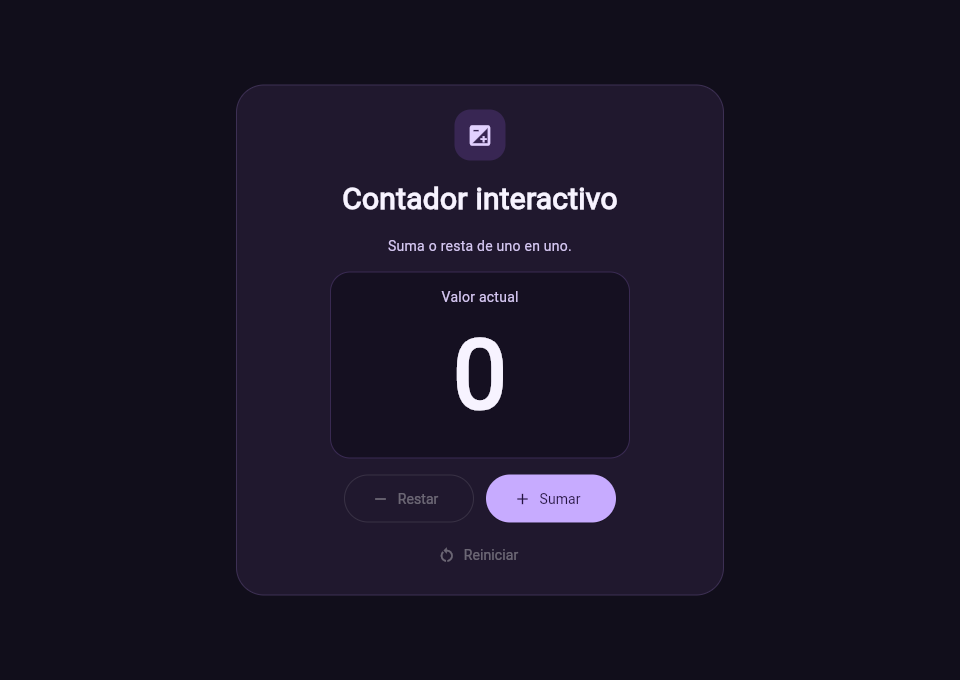
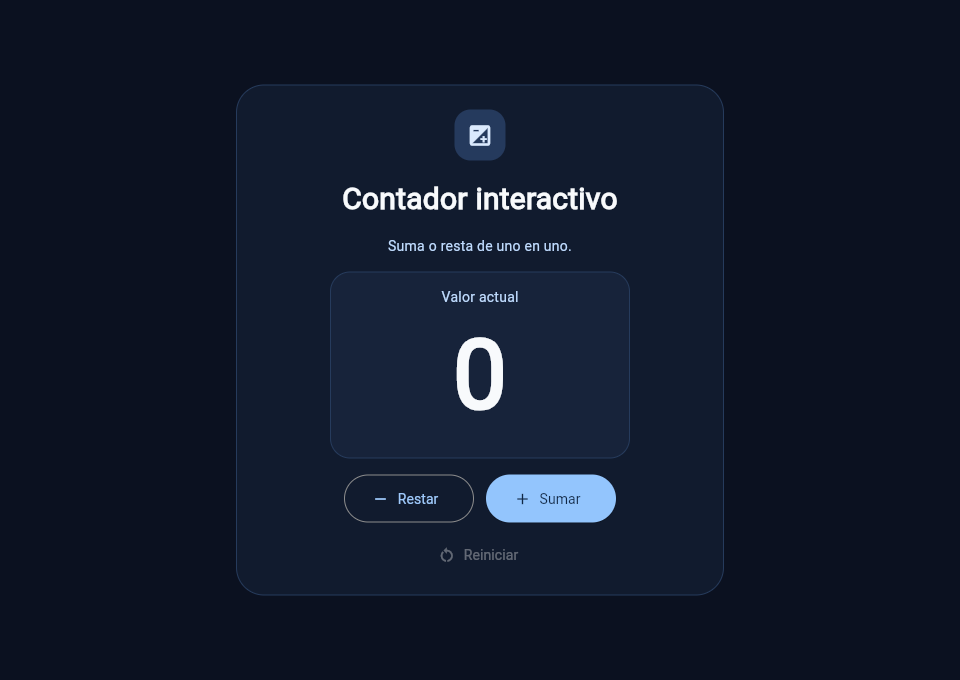
Conserva la paleta azul y los valores negativos

Changed region(s): [[0.3438, 0.4015, 0.6562, 0.7721], [0.4688, 0.1853, 0.5312, 0.2162], [0.4062, 0.7103, 0.4688, 0.7412]]

diff --git a/main.py b/main.py
@@ -9,18 +9,10 @@ class ContadorApp:
             "0",
             size=96,
             weight=ft.FontWeight.BOLD,
-            color="#F7F3FF",
+            color="#F8FAFC",
             text_align=ft.TextAlign.CENTER,
             max_lines=1,
             overflow=ft.TextOverflow.ELLIPSIS,
-        )
-        self.boton_restar = ft.OutlinedButton(
-            "Restar",
-            icon=ft.Icons.REMOVE,
-            on_click=self.decrementar,
-            disabled=True,
-            height=48,
-            width=130,
         )
         self.boton_reiniciar = ft.TextButton(
             "Reiniciar",
@@ -33,8 +25,8 @@ class ContadorApp:
     def configurar_pantalla(self):
         self.page.title = "Contador interactivo"
         self.page.theme_mode = ft.ThemeMode.DARK
-        self.page.theme = ft.Theme(color_scheme_seed="#BA9AFF")
-        self.page.bgcolor = "#110E1B"
+        self.page.theme = ft.Theme(color_scheme_seed="#93C5FD")
+        self.page.bgcolor = "#0B1120"
         self.page.padding = 20
         self.page.scroll = ft.ScrollMode.AUTO
         self.page.vertical_alignment = ft.MainAxisAlignment.CENTER
@@ -42,25 +34,32 @@ class ContadorApp:
 
         marcador = ft.Container(
             width=300,
-            bgcolor="#151021",
-            border=ft.Border.all(1, "#392A52"),
+            bgcolor="#17233A",
+            border=ft.Border.all(1, "#263B5C"),
             border_radius=20,
             padding=ft.Padding.symmetric(vertical=14, horizontal=12),
             content=ft.Column(
                 [
-                    ft.Text("Valor actual", size=14, color="#D5C7F2"),
+                    ft.Text("Valor actual", size=14, color="#BFDBFE"),
                     ft.Semantics(content=self.texto_contador, live_region=True),
                 ],
                 spacing=0,
                 horizontal_alignment=ft.CrossAxisAlignment.CENTER,
             ),
         )
+        boton_restar = ft.OutlinedButton(
+            "Restar",
+            icon=ft.Icons.REMOVE,
+            on_click=self.disminuir,
+            height=48,
+            width=130,
+        )
         boton_sumar = ft.FilledButton(
             "Sumar",
             icon=ft.Icons.ADD,
             on_click=self.incrementar,
-            bgcolor="#C7ABFF",
-            color="#241340",
+            bgcolor="#93C5FD",
+            color="#102744",
             height=48,
             width=130,
         )
@@ -68,14 +67,14 @@ class ContadorApp:
             ft.Container(
                 width=488,
                 padding=24,
-                bgcolor="#20182E",
-                border=ft.Border.all(1, "#3D3054"),
+                bgcolor="#111B2E",
+                border=ft.Border.all(1, "#263B5C"),
                 border_radius=28,
                 content=ft.Column(
                     [
                         ft.Container(
-                            content=ft.Icon(ft.Icons.EXPOSURE, color="#E2D1FF", size=27),
-                            bgcolor="#382653",
+                            content=ft.Icon(ft.Icons.EXPOSURE, color="#DBEAFE", size=27),
+                            bgcolor="#253A5D",
                             border_radius=16,
                             padding=12,
                         ),
@@ -83,17 +82,17 @@ class ContadorApp:
                             "Contador interactivo",
                             size=30,
                             weight=ft.FontWeight.BOLD,
-                            color="#F7F3FF",
+                            color="#F8FAFC",
                             text_align=ft.TextAlign.CENTER,
                         ),
                         ft.Text(
                             "Suma o resta de uno en uno.",
-                            color="#D5C7F2",
+                            color="#BFDBFE",
                             text_align=ft.TextAlign.CENTER,
                         ),
                         marcador,
                         ft.Row(
-                            [self.boton_restar, boton_sumar],
+                            [boton_restar, boton_sumar],
                             alignment=ft.MainAxisAlignment.CENTER,
                             wrap=True,
                             spacing=12,
@@ -111,8 +110,8 @@ class ContadorApp:
         self.contador += 1
         self.actualizar()
 
-    def decrementar(self, _):
-        self.contador = max(0, self.contador - 1)
+    def disminuir(self, _):
+        self.contador -= 1
         self.actualizar()
 
     def reiniciar(self, _):
@@ -121,9 +120,7 @@ class ContadorApp:
 
     def actualizar(self):
         self.texto_contador.value = str(self.contador)
-        en_cero = self.contador == 0
-        self.boton_restar.disabled = en_cero
-        self.boton_reiniciar.disabled = en_cero
+        self.boton_reiniciar.disabled = self.contador == 0
         self.page.update()
 
 

diff --git a/README.md b/README.md
@@ -3,9 +3,9 @@
 Proyecto académico de programación orientada a objetos con Python y Flet. El contador empieza en cero cada vez que se abre la aplicación.
 
 - **Sumar** aumenta el valor en uno.
-- **Restar** disminuye el valor en uno hasta llegar a cero.
+- **Restar** disminuye el valor en uno y admite valores negativos.
 - **Reiniciar** devuelve el contador a cero desde cualquier valor.
-- Cuando el contador está a cero, los botones **Restar** y **Reiniciar** se desactivan.
+- Cuando el contador está a cero, el botón **Reiniciar** se desactiva.
 
 ## Instalación y ejecución
 
@@ -24,9 +24,9 @@ La clase `ContadorApp` mantiene el valor de la sesión y enlaza los botones a su
 
 | Captura | Estado |
 | --- | --- |
-| [01 · Inicio](evidencia/01-inicio.png) | Valor 0. Restar y Reiniciar están desactivados. |
+| [01 · Inicio](evidencia/01-inicio.png) | Valor 0. Reiniciar está desactivado. |
 | [02 · Después de sumar](evidencia/02-despues-de-sumar.png) | Valor 5 tras cinco pulsaciones de Sumar. |
-| [03 · Después de restar](evidencia/03-despues-de-restar.png) | Valor 2 tras sumar tres veces y restar una vez en una ventana de 390 px de ancho. |
+| [03 · Después de restar](evidencia/03-despues-de-restar.png) | Valor −1 tras restar desde cero en una ventana de 390 px de ancho. |
 
 ## Documentación oficial
 
